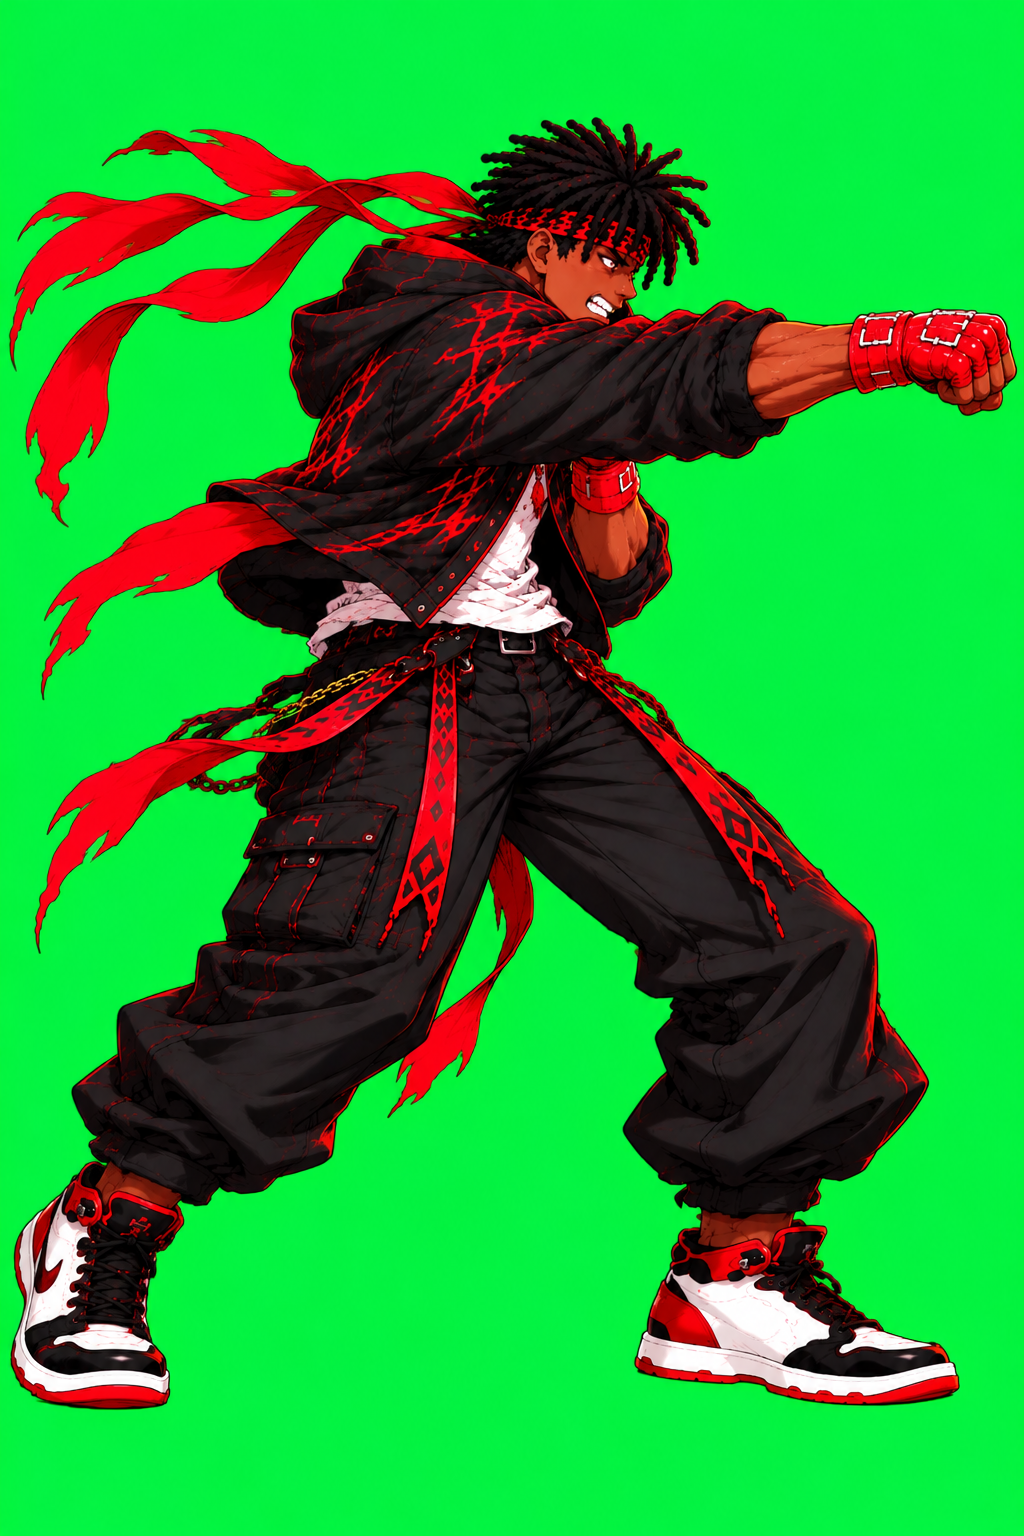
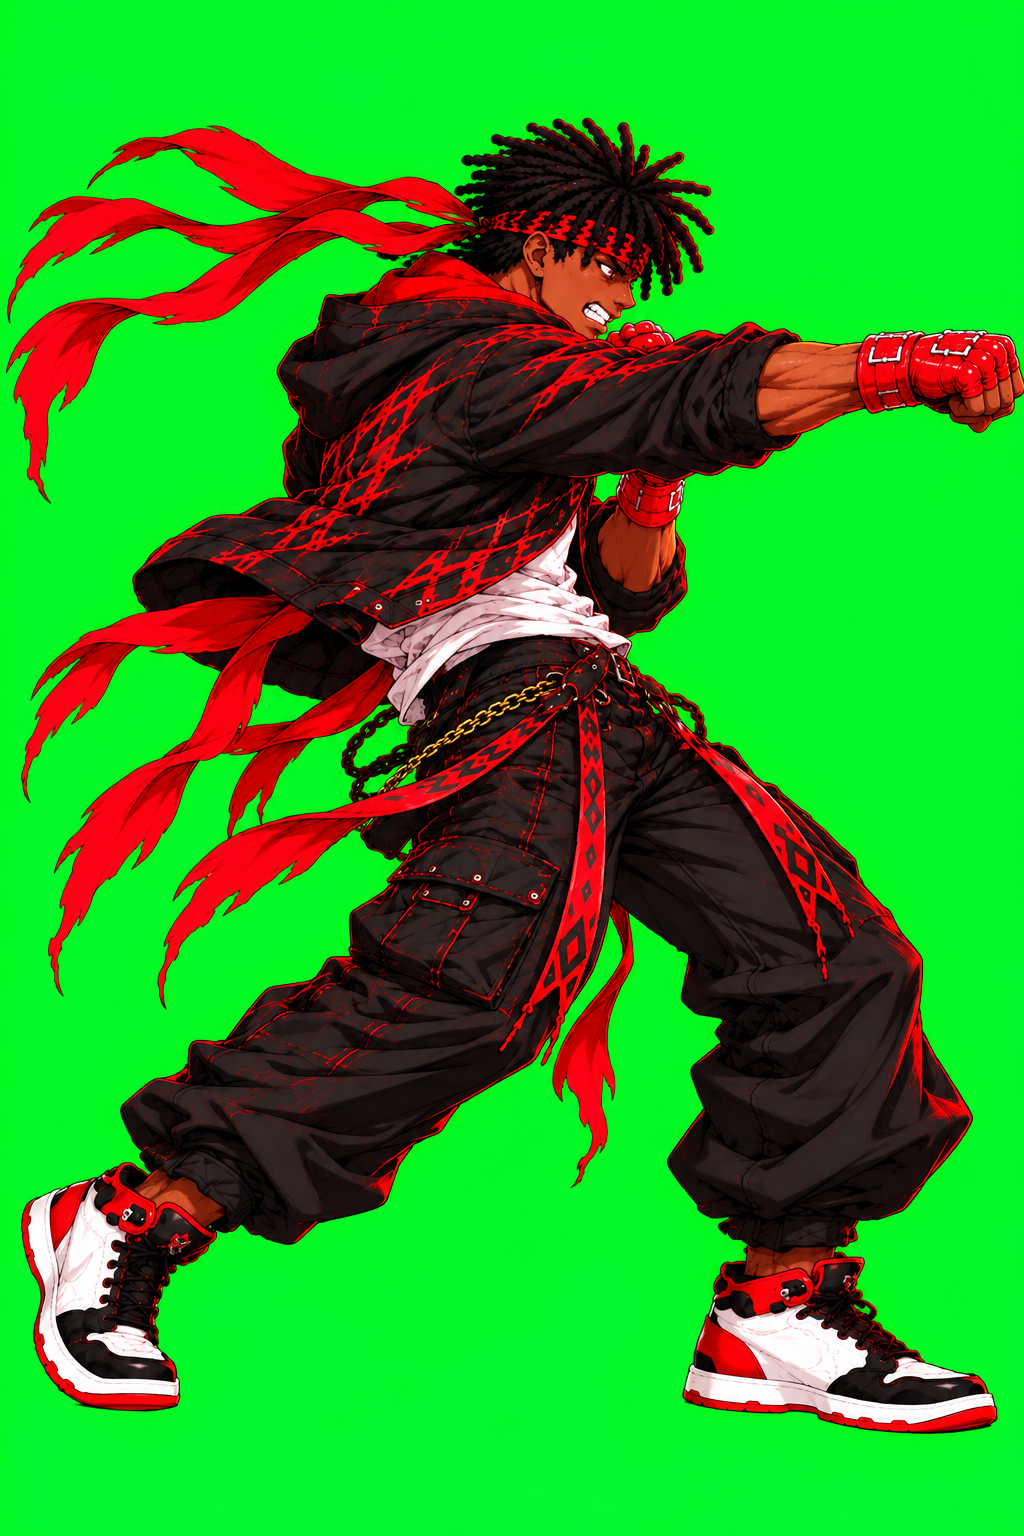
Passe à une seule touche d'attaque et enchaîne léger puis moyen
Un nouvel appui pendant le coup léger lance le moyen dès la fin des
images actives. L'impact du coup moyen est une nouvelle illustration
en corps entier, avec rotation des hanches et du pied arrière.

Claude-Session: https://claude.ai/code/session_015fMRbsLJa9znv5DiAYkBLj

diff --git a/lab/src/App.tsx b/lab/src/App.tsx
@@ -12,8 +12,8 @@ const CROUCH_KEYS = new Set(['arrowdown', 's'])
 const BLOCK_KEYS = new Set([' '])
 /** Touches qui lancent un saut. Z et W couvrent les claviers AZERTY et QWERTY. */
 const JUMP_KEYS = new Set(['arrowup', 'z', 'w'])
-/** Touches des coups de poing. */
-const PUNCH_KEYS: Record<string, 'light' | 'medium'> = { j: 'light', k: 'medium' }
+/** Touche d'attaque : un appui pour le coup léger, d'autres appuis pour enchaîner. */
+const ATTACK_KEYS = new Set(['j'])
 /** Deux appuis sur la même direction en moins de ce délai (millisecondes) déclenchent un dash. */
 const DOUBLE_TAP_MS = 260
 
@@ -24,8 +24,7 @@ function App() {
   const [crouch, setCrouch] = useState(false)
   const [block, setBlock] = useState(false)
   const [jump, setJump] = useState(0)
-  const [punch, setPunch] = useState<{ id: number; strength: 'light' | 'medium' }>({ id: 0, strength: 'light' })
-  const hit = (strength: 'light' | 'medium') => setPunch((current) => ({ id: current.id + 1, strength }))
+  const [attack, setAttack] = useState(0)
   const [dash, setDash] = useState({ id: 0, direction: 1 })
   const lastTap = useRef({ direction: 0, at: 0 })
   const [note, setNote] = useState('Bouge la souris sur le décor pour sentir la profondeur.')
@@ -68,7 +67,7 @@ function App() {
       const key = event.key.toLowerCase()
       const posture = CROUCH_KEYS.has(key) || BLOCK_KEYS.has(key)
       const jumping = JUMP_KEYS.has(key)
-      const punching = key in PUNCH_KEYS
+      const punching = ATTACK_KEYS.has(key)
       if ((!(key in KEYS) && !posture && !jumping && !punching) || event.ctrlKey || event.metaKey || event.altKey) return
       const target = event.target
       // on ne détourne les touches que hors des champs de saisie de texte
@@ -80,7 +79,7 @@ function App() {
       if (jumping || punching) {
         if (event.repeat) return
         if (jumping) setJump((count) => count + 1)
-        else setPunch((current) => ({ id: current.id + 1, strength: PUNCH_KEYS[key] }))
+        else setAttack((count) => count + 1)
         return
       }
       // l'heure de l'événement, pas celle de son traitement : le double appui reste détecté quand l'affichage rame
@@ -109,7 +108,7 @@ function App() {
   return (
     <main className="mx-auto flex max-w-[1500px] flex-col gap-3.5 px-4 pt-4 pb-8">
       <h1 className="sr-only">Moussa Sagna, développeur frontend</h1>
-      <StageScreen options={options} introKey={introKey} walk={walk} crouch={crouch} block={block} dash={dash} jump={jump} punch={punch} onUnavailable={onUnavailable} />
+      <StageScreen options={options} introKey={introKey} walk={walk} crouch={crouch} block={block} dash={dash} jump={jump} attack={attack} onUnavailable={onUnavailable} />
 
       <div className="flex flex-wrap items-center gap-x-5 gap-y-2 text-muted">
         <div className="flex gap-2">
@@ -118,8 +117,7 @@ function App() {
           <HoldButton label="S'accroupir" onHold={setCrouch} />
           <HoldButton label="Parer" onHold={setBlock} />
           <HoldButton label="Sauter" onHold={(held) => held && setJump((count) => count + 1)} />
-          <HoldButton label="Poing léger" onHold={(held) => held && hit('light')} />
-          <HoldButton label="Poing moyen" onHold={(held) => held && hit('medium')} />
+          <HoldButton label="Attaquer" onHold={(held) => held && setAttack((count) => count + 1)} />
         </div>
         <button
           type="button"
@@ -142,8 +140,8 @@ function App() {
         <kbd className="border border-[#3a3145] bg-panel px-1.5 text-line">Espace</kbd> pour parer,{' '}
         <kbd className="border border-[#3a3145] bg-panel px-1.5 text-line">↑</kbd> ou{' '}
         <kbd className="border border-[#3a3145] bg-panel px-1.5 text-line">Z</kbd> pour sauter,{' '}
-        <kbd className="border border-[#3a3145] bg-panel px-1.5 text-line">J</kbd> et{' '}
-        <kbd className="border border-[#3a3145] bg-panel px-1.5 text-line">K</kbd> pour les coups de poing léger et moyen. {note}
+        <kbd className="border border-[#3a3145] bg-panel px-1.5 text-line">J</kbd> pour attaquer : un appui pour le
+        coup léger, un second pour enchaîner le coup moyen. {note}
       </p>
     </main>
   )

diff --git a/lab/src/game/hero/HeroLayer.ts b/lab/src/game/hero/HeroLayer.ts
@@ -88,6 +88,12 @@ const PUNCHES = {
 } satisfies Record<string, { startup: number; active: number; recovery: number; reach: number; poses: [PoseName, PoseName, PoseName] }>
 export type PunchStrength = keyof typeof PUNCHES
 
+/**
+ * Enchaînement : une seule touche d'attaque. Un nouvel appui pendant un coup met le suivant en attente ;
+ * il part dès la fin des images actives, sans attendre la récupération.
+ */
+const CHAIN: Partial<Record<PunchStrength, PunchStrength>> = { light: 'medium' }
+
 /** Poses tenues en un seul calque, qui respirent d'un bloc. */
 const HELD: PoseName[] = ['crouch', 'block', 'crouchBlock']
 
@@ -137,6 +143,8 @@ export class HeroLayer {
   /** Temps écoulé depuis le début du coup de poing en cours. */
   private punchTime = 0
   private punchStrength: PunchStrength = 'light'
+  /** Vrai si la touche d'attaque a été pressée à nouveau pendant le coup en cours. */
+  private punchQueued = false
   /** Temps écoulé depuis le début du saut en cours. */
   private jumpTime = 0
   /** L'atlas de chaque pose. Un seul est lié à la fois, celui de la pose affichée. */
@@ -200,13 +208,21 @@ export class HeroLayer {
     this.dashing = { direction: Math.sign(direction), from: this.x, time: 0 }
   }
 
-  /** Lance un coup de poing. Possible seulement depuis la garde ou la marche. */
-  punch(strength: PunchStrength): void {
+  /**
+   * Touche d'attaque. Depuis la garde ou la marche, lance le coup léger ; pendant un coup, met en attente
+   * le coup suivant de l'enchaînement.
+   */
+  attack(): void {
+    if (this.pose === 'punch') {
+      if (CHAIN[this.punchStrength]) this.punchQueued = true
+      return
+    }
     const free = this.pose === 'guard' || this.pose === 'step' || this.pose === 'walk'
     if (!free) return
     this.pose = 'punch'
-    this.punchStrength = strength
+    this.punchStrength = 'light'
     this.punchTime = 0
+    this.punchQueued = false
   }
 
   /** Dessin du coup de poing en cours : démarrage, bras tendu pendant les images actives, puis récupération. */
@@ -277,6 +293,14 @@ export class HeroLayer {
     if (this.pose === 'punch') {
       this.punchTime += frame.delta
       const move = PUNCHES[this.punchStrength]
+      const next = CHAIN[this.punchStrength]
+      if (next && this.punchQueued && this.punchTime >= move.startup + move.active) {
+        // le coup suivant remplace la récupération de celui-ci
+        this.punchStrength = next
+        this.punchTime = 0
+        this.punchQueued = false
+        return
+      }
       if (this.punchTime < move.startup + move.active + move.recovery) return
       this.pose = 'guard'
     }

diff --git a/lab/src/game/hero/poseData.ts b/lab/src/game/hero/poseData.ts
@@ -240,6 +240,18 @@ export const POSES = {
       { name: 'body', parent: -1, pivot: [512, 768], box: [-8, 99, 1032, 1324], atlas: [0, 0] },
     ] as PoseLayer[],
   },
+  punchMidHit: {
+    file: 'hero/punchMidHit.webp',
+    atlasSize: [2048, 2048] as Point,
+    /** Milieu des appuis et ligne des semelles, en pixels de la toile. */
+    anchor: [518, 1433] as Point,
+    joints: {
+      center: [512, 768] as Point,
+    },
+    layers: [
+      { name: 'body', parent: -1, pivot: [512, 768], box: [-3, 109, 1035, 1333], atlas: [0, 0] },
+    ] as PoseLayer[],
+  },
   punchMidStart: {
     file: 'hero/punchMidStart.webp',
     atlasSize: [2048, 1024] as Point,
@@ -252,20 +264,6 @@ export const POSES = {
       { name: 'ribbon_low', parent: -1, pivot: [512, 768], box: [120, 588, 164, 321], atlas: [1846, 0] },
       { name: 'lower', parent: -1, pivot: [512, 768], box: [36, 656, 965, 841], atlas: [0, 0] },
       { name: 'upper', parent: -1, pivot: [512, 768], box: [26, 122, 881, 636], atlas: [965, 0] },
-    ] as PoseLayer[],
-  },
-  punchMidHit: {
-    file: 'hero/punchMidHit.webp',
-    atlasSize: [2048, 2048] as Point,
-    /** Milieu des appuis et ligne des semelles, en pixels de la toile. */
-    anchor: [518, 1487] as Point,
-    joints: {
-      center: [512, 768] as Point,
-    },
-    layers: [
-      { name: 'ribbon_low', parent: -1, pivot: [512, 768], box: [120, 588, 164, 321], atlas: [0, 841] },
-      { name: 'lower', parent: -1, pivot: [512, 768], box: [36, 656, 965, 841], atlas: [0, 0] },
-      { name: 'upper', parent: -1, pivot: [512, 768], box: [42, 167, 1025, 591], atlas: [965, 0] },
     ] as PoseLayer[],
   },
   punchMidRecover: {

diff --git a/lab/src/components/StageScreen.tsx b/lab/src/components/StageScreen.tsx
@@ -21,13 +21,13 @@ interface Props {
   dash: { id: number; direction: number }
   /** Change de valeur à chaque saut demandé. */
   jump: number
-  /** Coup de poing demandé : `id` change à chaque demande. */
-  punch: { id: number; strength: 'light' | 'medium' }
+  /** Change de valeur à chaque appui sur la touche d'attaque. */
+  attack: number
   onUnavailable?: () => void
 }
 
 /** L'écran du stage : décor animé, personnage en garde, météo et carton de titre. */
-export function StageScreen({ options, introKey, walk, crouch, block, dash, jump, punch, onUnavailable }: Props) {
+export function StageScreen({ options, introKey, walk, crouch, block, dash, jump, attack, onUnavailable }: Props) {
   const root = useRef<HTMLDivElement>(null)
   const backdrop = useRef<HTMLCanvasElement>(null)
   const hero = useRef<HTMLCanvasElement>(null)
@@ -81,8 +81,8 @@ export function StageScreen({ options, introKey, walk, crouch, block, dash, jump
   }, [jump])
 
   useEffect(() => {
-    if (punch.id > 0) engine.current?.punch(punch.strength)
-  }, [punch])
+    if (attack > 0) engine.current?.attack()
+  }, [attack])
 
   useEffect(() => {
     if (introKey > 0) engine.current?.replayIntro()

diff --git a/lab/src/game/stage/StageEngine.ts b/lab/src/game/stage/StageEngine.ts
@@ -1,5 +1,4 @@
 import { HeroLayer } from '../hero/HeroLayer'
-import type { PunchStrength } from '../hero/HeroLayer'
 import type { Camera, FrameInfo, StageOptions } from '../types'
 import { StageBackdrop } from './StageBackdrop'
 import { WeatherLayer } from './WeatherLayer'
@@ -60,9 +59,9 @@ export class StageEngine {
     this.hero.dash(direction)
   }
 
-  /** Lance un coup de poing du personnage. */
-  punch(strength: PunchStrength): void {
-    this.hero.punch(strength)
+  /** Touche d'attaque : lance un coup de poing ou enchaîne sur le suivant. */
+  attack(): void {
+    this.hero.attack()
   }
 
   /** Lance un saut vertical du personnage. */

diff --git a/lab/tools/prepare_poses.py b/lab/tools/prepare_poses.py
@@ -54,11 +54,13 @@ FAINT_LOGOS = dict(jumpStart=[[(150, 1228), (188, 1226), (204, 1262), (205, 1296
 SINGLE = dict(step=None, dashForward=560, dashBack=360, crouchStep=None, crouch=None, blockStep=None, block=None, crouchBlock=None,
               jumpStart=None, jumpRise=520, jumpPeak=520, jumpLand=None,
               # jab : calé pour que le pied arrière tombe sur celui de la garde ; le pied avant fait son petit pas
-              punchStart=483, punchHit=475)
+              punchStart=483, punchHit=475,
+              # direct : corps entier, calé sur le pied avant de la garde ; le pied arrière pivote sur place
+              punchMidHit=518)
 # Coups donnés depuis la garde : le haut du corps vient de l'illustration du coup, les jambes restent celles de la
 # garde, pour que les pieds ne bougent pas. Valeur : décalage qui amène la boucle de ceinture du coup sur celle de
 # la garde (557, 693).
-ON_GUARD_LEGS = dict(punchMidStart=(17, 87), punchMidHit=(41, 58), punchMidRecover=(-13, 68))
+ON_GUARD_LEGS = dict(punchMidStart=(17, 87), punchMidRecover=(-13, 68))
 
 # ---------- marche : articulations et polygones. « near » = côté proche (jambe avant, bras arrière) ----------
 WALK_JOINTS = dict(

diff --git a/lab/docs/ARCHITECTURE.md b/lab/docs/ARCHITECTURE.md
@@ -99,18 +99,22 @@ La hauteur est calculée par le moteur : une montée (`JUMP.rise`) puis une reto
 
 ### Les coups de poing
 
-`HeroLayer.punch(strength)` lance un coup de poing debout, depuis la garde ou la marche. `PUNCHES` décrit chaque coup : son minutage, repris d'un jeu de combat à 60 images par seconde, et un dessin par phase (démarrage, actif, récupération).
+Il n'y a qu'une touche d'attaque. `HeroLayer.attack()` lance le coup léger depuis la garde ou la marche ; un nouvel appui pendant un coup met en attente le coup suivant de l'enchaînement (`CHAIN`), qui part dès la fin des images actives, à la place de la récupération. Pour l'instant : léger, puis moyen.
+
+`PUNCHES` décrit chaque coup : son minutage, repris d'un jeu de combat à 60 images par seconde, et un dessin par phase.
 
 | Coup | Démarrage | Actif | Récupération | Dessins |
 | --- | --- | --- | --- | --- |
 | Léger (jab du bras avant) | 4 | 3 | 7 | `punchStart`, `punchHit`, puis `punchStart` à nouveau |
 | Moyen (direct du bras arrière) | 6 | 4 | 11 | `punchMidStart`, `punchMidHit`, `punchMidRecover` |
 
-Un coup ne peut pas être interrompu ni enchaîné avant la fin.
+Montage des dessins :
 
-Les deux coups ne sont pas montés de la même façon. Le **léger** utilise ses illustrations entières, avec un jeu de jambes de boxe : elles sont calées pour que le pied arrière tombe sur celui de la garde, et le pied avant fait un petit pas glissé pendant que le corps s'abaisse et s'engage. Le **moyen** ne prend que le haut du corps de ses illustrations, coupé sous la ceinture et posé sur les jambes de la garde (`ON_GUARD_LEGS` dans `tools/prepare_poses.py`) : ses pieds ne bougent pas du tout. Il reste à refaire sur le modèle du léger.
+- **Léger** : illustrations entières, calées pour que le pied arrière tombe sur celui de la garde. Le pied avant fait un petit pas glissé.
+- **Moyen, impact** : illustration entière, calée sur le pied avant de la garde. Le pied arrière pivote sur sa pointe et les hanches tournent.
+- **Moyen, armé et retour** : seulement le haut du corps, posé sur les jambes de la garde (`ON_GUARD_LEGS` dans `tools/prepare_poses.py`). Les jambes sautent donc d'un état à l'autre autour de l'impact ; ces deux dessins restent à refaire en corps entier.
 
-Il n'y a pas encore d'adversaire, donc pas de zone de frappe : le champ `reach` note seulement la portée du poing pour plus tard. `App.tsx` déclenche le coup léger avec J et le moyen avec K, ou avec leurs boutons.
+Il n'y a pas encore d'adversaire, donc pas de zone de frappe : le champ `reach` note seulement la portée du poing pour plus tard. `App.tsx` déclenche l'attaque avec J ou le bouton « Attaquer ».
 
 ### Les changements d'état
 

diff --git a/lab/docs/ROADMAP.md b/lab/docs/ROADMAP.md
@@ -26,7 +26,9 @@
 - [ ] Effacer le logo des baskets sur la pose intermédiaire (`../art/hero-step.png`).
 - [ ] Adoucir le pli du genou de la marche et articuler l'avant-bras.
 - [ ] Articuler les bras et les jambes de la garde.
-- [ ] Poing moyen : le refaire avec un jeu de jambes, comme le léger (rotation des hanches, talon arrière qui pivote).
+- [x] Une seule touche d'attaque, qui enchaîne le coup léger puis le moyen.
+- [ ] Poing moyen : refaire l'armé et le retour en corps entier, comme l'impact.
+- [ ] Coup fort, troisième de l'enchaînement.
 - [ ] Accroupi : animer séparément la tête et les rubans.
 - [ ] Alléger le chargement : environ 17 Mo d'atlas sont téléchargés au démarrage.
 - [ ] Parade : la déclencher en reculant au moment d'un coup, quand il y aura un adversaire.

diff --git a/lab/README.md b/lab/README.md
@@ -14,8 +14,7 @@ Le lab sert à mettre au point le stage et les animations du personnage avant de
 | S'accroupir | maintenir ↓ ou S | maintenir « S'accroupir » |
 | Parer (debout ou accroupi) | maintenir Espace | maintenir « Parer » |
 | Sauter | ↑ ou Z (W sur un clavier QWERTY) | « Sauter » |
-| Coup de poing léger | J | « Poing léger » |
-| Coup de poing moyen | K | « Poing moyen » |
+| Attaquer | J : un appui pour le coup léger, un second pour enchaîner le coup moyen | « Attaquer » |
 
 ## Démarrer
 
